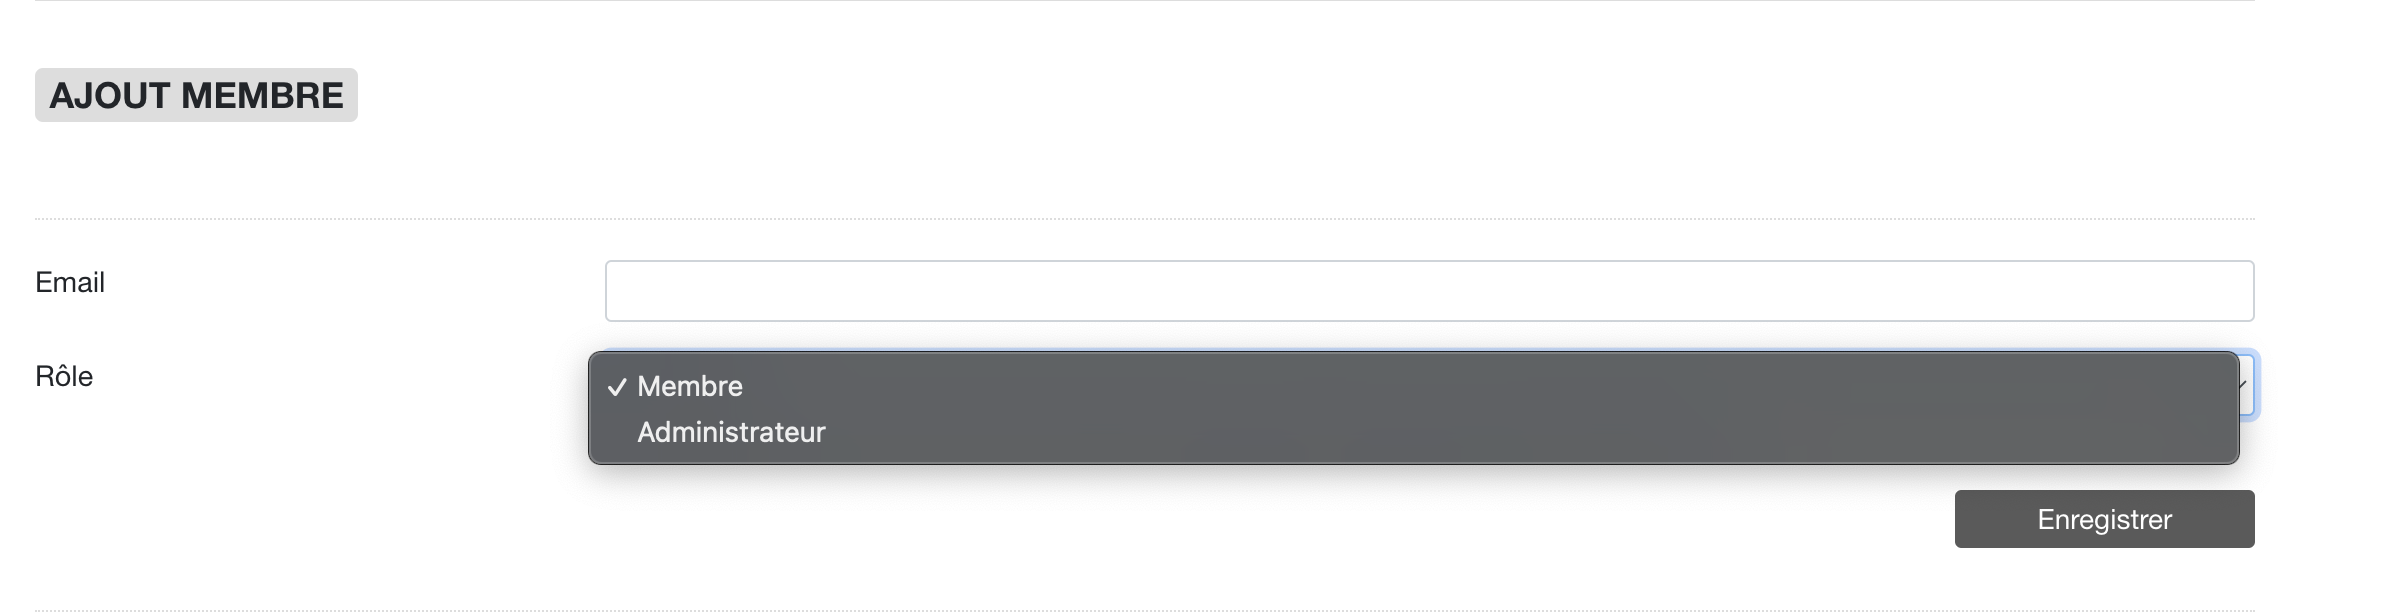
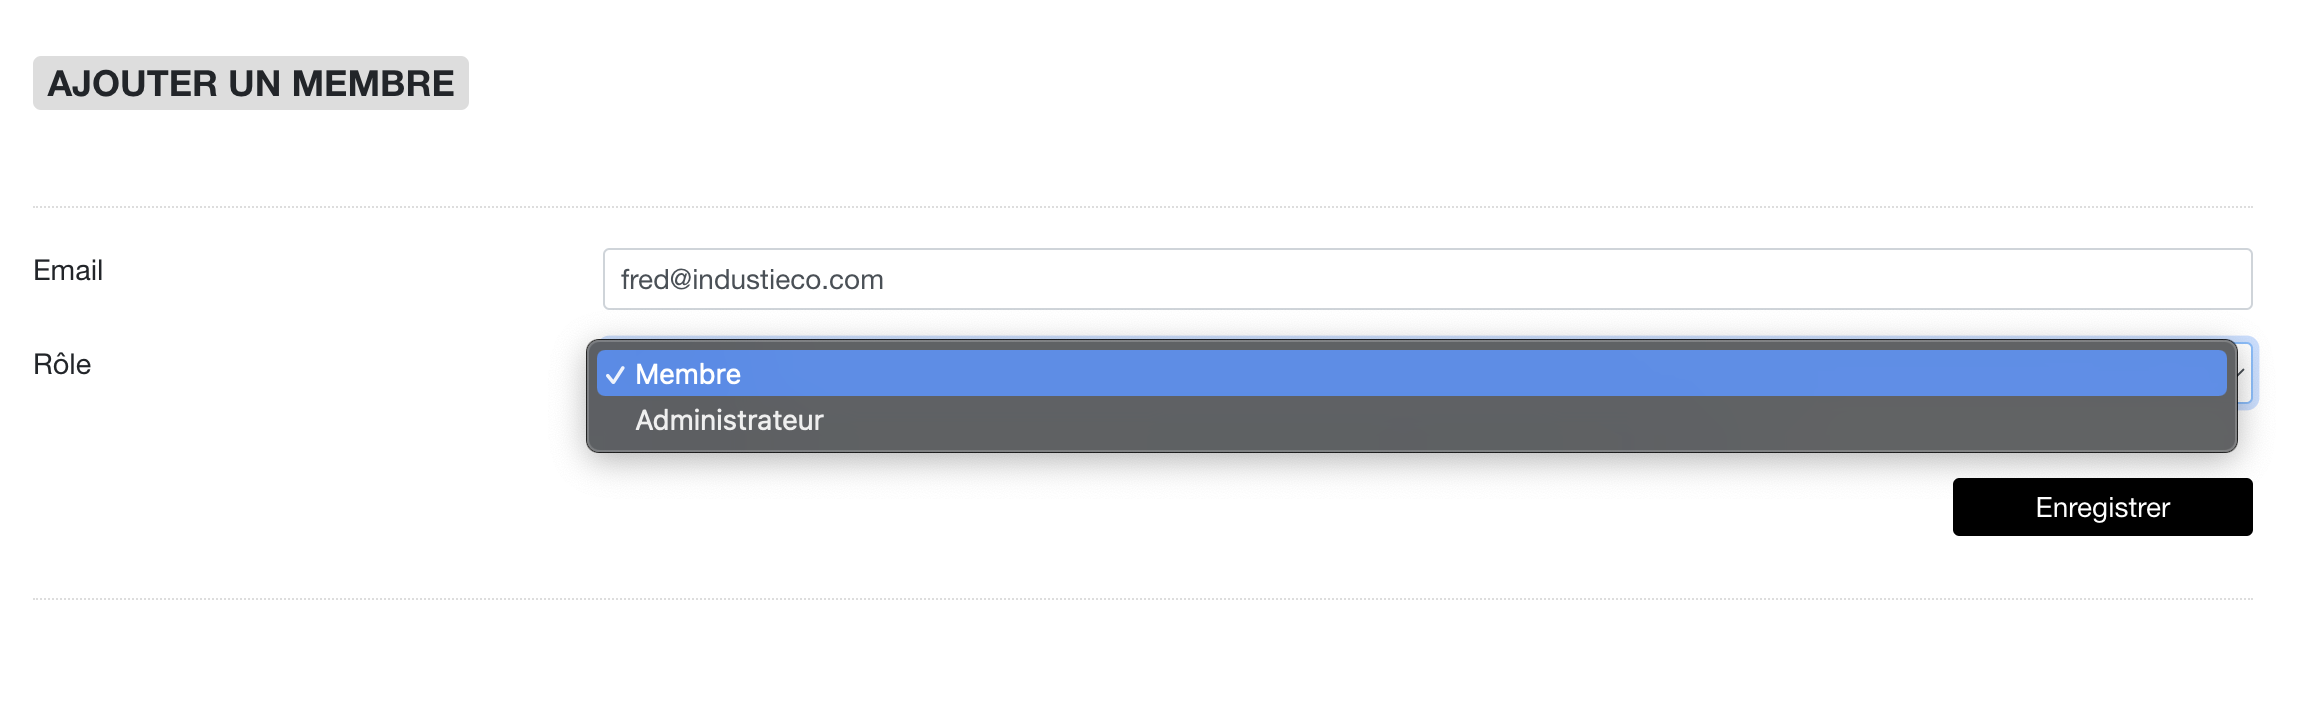
2022-06-21

diff --git a/docs/gs/metrics.md b/docs/gs/metrics.md
@@ -5,27 +5,36 @@
 
 Sur Statit, les indicateurs font partie de collections.
 
-Les collections sont des ensembles d'indicateurs qui se ressemblent. Ce sont un petit peu comme des étagères avec des livres de même nature ou comme des répertoires sur un ordinateur.
+Les collections contiennent des indicateurs qui se ressemblent. Ce sont un petit peu comme des étagères avec des livres de même nature ou des répertoires sur un ordinateur.
 
-Si vous ne travaillez pas dans une collection déjà créée, vous allez d'abord devoir en créer une. Suivez les étapes ci-dessous. Si la collection est déjà créée, passez à l'étape suivante.
+Si la collection avec laquelle vous souhaitez travailler existe déjà, passez à l'étape suivante. Sinon, vous allez d'abord devoir en créer une.
 
-Rendez-vous sur la page d'accueil de votre organisation.
+Rendez-vous d'abord sur la page d'accueil du compte 'Organisation' - soit en vous connectant avec les identifiants de votre compte 'Organisation', soit en cliquant sur l'organisation dans 'Mes organisations' dans le menu en haut à droite.
 
 ![](/img/publisher-fr_gs_metrics_0.png){: style="width:700px;margin:30px;padding:20px;border:1px solid #ddd;border-radius:5px"}
 
-Si vous ne voyez pas s'afficher le menu avec les onglets 'Collections' et 'Membres', cela signifie que vous n'avez pas la vue 'Utilisateur'. Rendez-vous dans 'Mon Compte' en haut à droite et dans la partie 'Configuration', changez la vue pour 'Organisation'.
+Si tout va bien, vous devez voir s'afficher les onglets 'Accueil', 'Collections' et 'Membres'
 
-Cliquez ensuite sur l'onglet 'Collections' et cherchez le bouton 'Créer une collection' en bas. Appuyez dessus.
+*Un problème?*
+
+> Si vous ne voyez pas s'afficher ces onglets, rendez-vous dans 'Mon Compte' en haut à droite et dans la partie 'Configuration' et changez la vue pour 'Organisation'.
+
+> Si la vue 'Organisation' n'est pas proposée, cela signifie que le compte n'est pas un compte 'Organisation', suivez les instructions de la [section précédente](index.md))
+
+
+Cliquez ensuite sur l'onglet 'Collections' et cherchez le bouton 'Créer une collection' en bas. Cliquez dessus.
 
 ![](/img/publisher-fr_gs_metrics_1.png){: style="width:700px;margin:30px;padding:20px;border:1px solid #ddd;border-radius:5px"}
 
-Vous êtes prêt à créer une collection. Choisissez d'abord un identifiant pour la collection. C'est un nom avec uniquement des lettres, des chiffres, les tirets '-_' et le '.'. Prenez par exemple 'test'.
+Vous êtes prêt à créer une collection.
 
-Ajoutez ensuite un nom pour la collection 'Une collection test'.
+- Choisissez d'abord un identifiant pour la collection. C'est un nom sans espace avec uniquement des lettres, des chiffres, les tirets '-_' et le '.'. Prenez par exemple 'test'.
 
-Définissez l'accès. Choisissez 'Public'. Cela signifie que tous les membres de l'organisation auront accès à la collection.
+- Ajoutez ensuite un nom pour la collection 'Une collection test'.
 
-Enfin, ajouter une description brève, par exemple 'Ma première collection'.
+- Définissez l'accès. Choisissez 'Public'. Cela signifie que tous les membres de l'organisation auront accès à la collection.
+
+- Enfin, ajouter une description brève, par exemple 'Ma première collection'.
 
 Cliquez sur 'Enregistrer'. C'est parti
 
@@ -47,33 +56,53 @@ Cliquez sur l'onglet 'Indicateurs' et puis sur le bouton 'Ajouter des indicateur
 ![](/img/publisher-fr_gs_metrics_4.png){: style="width:700px;margin:30px;padding:20px;border:1px solid #ddd;border-radius:5px"}
 
 
-## Utiliser les fichiers 'exemple'
+## Télécharger un fichier 'exemple'
 
 Pour commencer simplement, nous allons charger un fichier 'exemple'.
 
 Allez en bas de la page et cliquez sur 'Indicateurs simples'. Si vous travaillez avec Microsoft Excel, sélectionnez Excel. Sinon, choisissez Csv.
 
-En cliquant sur le choix, un fichier exemple va être téléchargé. Nous utilisons de notre côté Excel.
+![](/img/publisher-fr_gs_metrics_5.png){: style="width:400px;margin:30px;padding:20px;border:1px solid #ddd;border-radius:5px"}
 
-![](/img/publisher-fr_gs_metrics_5.png){: style="width:700px;margin:30px;padding:20px;border:1px solid #ddd;border-radius:5px"}
+En cliquant sur le choix, un fichier exemple va être téléchargé. L'image ci-dessous montre le fichier Excel.
 
-Ouvrons le fichier et observons les lignes:
+![](/img/publisher-fr_gs_metrics_6.png){: style="width:700px;margin:30px;padding:20px;border:1px solid #ddd;border-radius:5px"}
 
-- La première ligne contient les identifiants des indicateurs. Nous y reviendrons
-- La seconde ligne a le nom des indicateurs
+Ouvrez le fichier et observez les lignes:
+
+- La première ligne contient les identifiants des indicateurs
+- La seconde ligne le nom des indicateurs
 - La troisième ligne la description des indicateurs s'il y en a une
 - La quatrième l'unité
 - La cinquième la fréquence: D est pour Jour (Day), W pour Semaine (Week), M pour Mois (Month), Q pour Trimestre (Quarter) et enfin Y pour Année (Year)
 - A partir de la sixième ligne, nous retrouvons les valeurs de l'indicateur et la date de l'observation
 
-Ce fichier est un exemple de format qui peut être utilisé pour charger des indicateurs.
+Ce fichier est un exemple qui peut être utilisé pour charger des indicateurs.
 
-## Comprendre les identifiants
 
-Comme cela a été présenté dans le guide 'utilisateur', les indicateurs sur Statit ont un identifiant unique qui les réprésente et qui ressemble à un lien Internet.
+## Charger les indicateurs
 
-Par exemple, [clim/copernicus-r/daily/dk01/temp/real](https://www.gostatit.com/clim/copernicus-r/daily/dk01/temp/real) est l'identifiant unique d'un indicateur qui représente la température au Danemark.
+Dans notre exemple, les identifiants commencent par 'industrieco/test'. C'est l'identifiant de la collection.
 
-Les indicateurs sont aussi toujours représentés par leur fréquence (jour, semaine, mois) et leur unité (kilo, mètre, US Dollar...).
+Dans votre cas, les identifiants du fichier téléchargé commenceront par le nom d'utilisateur du compte, suivi de l'identifiant de la collection ('test' si vous avez choisi cela).
 
-Vous allez donc devoir renseigner ces éléments pour vos indicateurs.
+Prenez maintenant le fichier avec la souris et déposez le dans la zone grise de la page. Automatiquement, le fichier va être lu et analysé.
+
+![](/img/publisher-fr_gs_metrics_7.png){: style="width:400px;margin:30px;padding:20px;border:1px solid #ddd;border-radius:5px"}
+
+*Un problème ?*
+> Si vous n'êtes pas familier cette technique, vous pouvez cliquer sur le lien 'cliquez là' pour sélectionner manuellement le fichier exemple à chargé
+
+Une fenêtre apparait avec le résultat de la lecture du fichier: le nombre d'indicateurs valides, invalides et les identifiants des indicateurs qui vont être chargés.
+
+![](/img/publisher-fr_gs_metrics_8.png){: style="width:400px;margin:30px;padding:20px;border:1px solid #ddd;border-radius:5px"}
+
+Cliquez sur 'Chargez les indicateurs'
+
+Au bout de quelques secondes, vous êtes de nouveau sur la page d'accueil. Cliquez sur l'onglet 'Indicateurs'. Les indicateurs sont bien là.
+
+## Prochaines étapes
+
+Vous avez maintenant charger vos premiers indicateurs. Vous pouvez essayer de charger les autres fichiers 'exemple' ou de charger vos propres indicateurs.
+
+Si vous souhaitez comprendre comment inviter des collaborateurs, continuez [ici](members.md), si vous souhaitez voir comment publier des graphiques, c'est [là](charts.md)

diff --git a/docs/gs/charts.md b/docs/gs/charts.md
@@ -1,3 +1,116 @@
 # Ajouter des graphiques
 
-En cours de rédaction ... Merci pour votre patience.
+Vous avez chargé vos premiers indicateurs dans la collection que vous avez créé.
+
+Maintenant, vous allez ajouter des graphiques pour rendre la consultation des indicateurs plus facile.
+
+
+## Modifier la collection
+
+Rendez-vous sur la page d'accueil de la collection en choisissant la collection dans la liste des 'Collections' disponible sur la page d'accueil du compte 'Organisation'.
+
+A droite du nom de la collection, cliquez sur le bouton '...', puis sur modifier la collection.
+
+![](/img/publisher-fr_gs_charts_0.png){: style="width:300px;margin:30px;padding:20px;border:1px solid #ddd;border-radius:5px"}
+
+Dans la page de modification de la collection, allez tout en bas sur le champ 'Graphiques', cliquez sur 'Oui' puis sur 'Enregistrer'.
+
+Ca y est. Votre collection est prête à accueillir des graphiques.
+
+
+## Créer un tableau
+
+Sur Statit, les graphiques sont contenus dans des tableaux.
+
+Cliquez sur l'onglet 'Graphiques' de la page d'accueil de votre collection. Puis cliquez sur "Créer un tableau"
+
+![](/img/publisher-fr_gs_charts_1.png){: style="width:700px;margin:30px;padding:20px;border:1px solid #ddd;border-radius:5px"}
+
+Sur la page:
+
+- Ajoutez l'identifiant du tableau, par exemple 'premier'
+- Compléter le nom du tableau, 'Premier tableau'
+- Cliquez sur 'Enregistrer'
+
+
+## Ajouter un graphique
+
+Vous êtes maintenant dans le tableau.
+
+A droite du nom du tableau, cliquez sur le petit curseur et choisissez 'Ajouter un graphique'.
+
+![](/img/publisher-fr_gs_charts_2.png){: style="width:300px;margin:30px;padding:20px;border:1px solid #ddd;border-radius:5px"}
+
+Sur la première ligne, vous pouvez choisir le type de graphique. Pour le premier graphique, nous allons prendre un graphique en valeur. C'est un graphique qui va représenter une seule valeur.
+
+![](/img/publisher-fr_gs_charts_3.png){: style="width:700px;margin:30px;padding:20px;border:1px solid #ddd;border-radius:5px"}
+
+Entrez le nom du graphique, par exemple 'Prix'.
+
+Ensuite cliquez sur 'Ajouter un indicateur'. Et dans le champ 'Identifiant', indiquez l'identifiant de l'indicateur que vous souhaitez. Dans notre cas, nous ajoutons l'identifiant 'industrieco/test/produit_1/eur'
+
+![](/img/publisher-fr_gs_charts_3b.png){: style="width:700px;margin:30px;padding:20px;border:1px solid #ddd;border-radius:5px"}
+
+Cliquez sur Enregistrer pour sauver l'indicateur.
+
+Cliquez à nouveau sur 'Enregistrer' pour le graphique.
+
+Le graphique s'affiche désormais avec sa dernière valeur dans le tableau.
+
+![](/img/publisher-fr_gs_charts_4.png){: style="width:300px;margin:30px;padding:20px;border:1px solid #ddd;border-radius:5px"}
+
+
+## Modifier le graphique
+
+Nous allons maintenant faire quelques modifications sur le graphique.
+
+En haut à droite du graphique, cliquez sur '...' et sélectionnez 'Modifier le graphique'.
+
+Dans la section 'Indicateurs', à droite de l'identifiant, cliquez sur le curseur 'Modifier'.
+
+Cliquez sur 'Plus de paramètres'.
+
+Dans la section 'Format', choisissez 100.0 pour voir un chiffre après la virgule. Et dans la partie 'Conditions', indiquez la valeur 100 dans la condition 'Supérieure' et choisissez la couleur 'Orange'.
+
+![](/img/publisher-fr_gs_charts_5.png){: style="width:700px;margin:30px;padding:20px;border:1px solid #ddd;border-radius:5px"}
+
+Cliquez sur 'Enregistrer'. Et encore 'Enregistrer'
+
+Le nouveau graphique s'affiche désormais dans le tableau
+
+
+## Ajouter d'autres graphiques
+
+Sur la page du tableau, nous allons maintenant ajouter deux graphiques.
+
+### Graphique valeur
+
+Le premier est de nouveau un graphique en valeur.
+
+Cliquez sur 'Ajouter un graphique' et répétez ce que nous venons de faire. Choisissez un autre indicateur de votre collection, par exemple sur le 'produit_2' si vous avez téléchargé l'exemple.
+
+La priorité définit l'ordre dans lequel s'affichent les graphiques. Choisissez 14 pour ce graphique. Il va s'afficher juste arpès l'autre.
+
+
+### Graphique en ligne
+
+Nous allons maintenant créer un graphique en ligne avec plusieurs indicateurs.
+
+Cliquez à nouveau sur 'Ajouter un graphique'.
+
+Cette fois, dans le format, choisissez 'Graphique en ligne'. Dans le nom, indiquez 'Prix des produits'. Ensuite, dans la partie indicateurs, cliquez sur 'Ajouter un indicateur'.
+
+Dans la partie 'Identifiant', mettez l'identifiant du premier indicateur de la collection que nous avons chargé. Pour nous, c'est 'industrieco/test/produit_1/eur'. Choisissez une couleur pour chaque indicateur.
+
+Répétez l'opération pour plusieurs indicateurs.
+
+Dans le champ 'Priorité', indiquez 13 pour placer le graphique après les autres.
+
+![](/img/publisher-fr_gs_charts_6.png){: style="width:700px;margin:30px;padding:20px;border:1px solid #ddd;border-radius:5px"}
+
+
+## Prochaines étapes
+
+Ca y est. Vous avez créé un premier tableau avec plusieurs graphiques. Ce tableau est maintenant consultable tout autant que les indicateurs dans votre collection.
+
+Si vous souhaitez supprimer cette collection, allez dans la section suivante. Pour aller plus loin, c'est [ici](/next/index.md)

diff --git a/docs/gs/members.md b/docs/gs/members.md
@@ -1,3 +1,45 @@
 # Inviter des membres
 
-En cours de rédaction ... Merci pour votre patience.
+Vous avez chargé des indicateurs. Il est temps de maintenant les partager avec des membres.
+
+*Note*
+
+> Cette section est uniquement accessible si vous êtes propriétaire ou administrateur du compte 'Organisation'. Vous pouvez vérifiez vos droits d'accès dans 'Mon compte' dans l'onglet 'Accès' du menu en haut à droite
+
+## Inviter un membre
+
+Vous allez inviter des membres sur votre compte 'Organisation'.
+
+Ces membres pourront par défaut accéder à toutes les collections publiques sur le compte.
+
+Rendez-vous sur la page d'accueil de l'organisation (en cliquant sur l'organisation dans la section 'Mon organisation' dans le menu en haut à droite).
+
+Cliquez ensuite sur l'onglet Membres', puis sur 'Ajouter un membre'.
+
+Dans le formulaire, entrez l'email du membre que vous souhaitez inviter avec le rôle 'Membre'.
+
+![](/img/publisher-fr_gs_members_0.png){: style="width:700px;margin:30px;padding:20px;border:1px solid #ddd;border-radius:5px"}
+
+Cliquez sur 'Enregistrer'.
+
+Votre collaborateur va recevoir un email avec votre invitation. Après la création de son compte, il pourra directement visiter l'organisation
+
+
+## Types de membre
+
+Il y a trois types de membres dans les comptes 'Organisation'.
+
+- Les 'Membres' peuvent accéder au compte. Ils ne peuvent pas gérer les membres, ni créer des collections mais peuvent éditer des collections existantes.
+
+- Les 'Administrateurs' peuvent accéder au compte, gérer les membres du compte et créer de nouvelles collections
+
+- Les 'Propriétaires' peuvent tout faire, notamment supprimer le compte.
+
+Vous pouvez changer les droits d'accès des membres en cliquant sur 'Modifier l'accès à droite du membre dans la liste des membres.
+
+
+## Prochaines étapes
+
+Vous avez appris à ajouter des collaborateurs et modifier leurs droits.
+
+Dans la partie [suivante](charts.md), nous allons maintenant apprendre à publier des graphiques au sein d'une collection.

diff --git a/docs/gs/wrapup.md b/docs/gs/wrapup.md
@@ -1,0 +1,14 @@
+# Nettoyer
+
+Vous avez chargé vos premiers indicateurs, invité des membres et créer un premier tableau.
+
+Si vous le souhaitez, vous allez maintenant supprimer la collection. Pour faire cela, vous devez:
+
+- Supprimer les graphiques et tableaux de bord
+- Enfin, supprimer les indicateurs
+
+Pour supprimer le tableau, c'est simple, allez dans le tableau et cliquez en haut à droite sur 'Supprimer'.
+
+Pour supprimer les indicateurs, allez dans la page d'accueil de la collection et cliquez sur 'Supprimer les indicateurs'.
+
+Une fois que la collection est vide, vous pouvez la supprimer.

diff --git a/docs/gs/index.md b/docs/gs/index.md
@@ -56,9 +56,7 @@ Si vous n'avez pas les droits suffisants, contactez la personne qui gère l'orga
 Vous êtes prêt à passer à l'[étape suivante](metrics.md).
 
 
-
 ## Prochaines étapes
-
 
 Vous avez appris ce qu'est un compte organisation, comment en créer un ou comment en rejoindre un.
 

diff --git a/docs/next/charts.md b/docs/next/charts.md
@@ -1,0 +1,3 @@
+# Aller plus loin
+
+En cours de rédaction ... Merci pour votre patience.

diff --git a/docs/next/metrics.md b/docs/next/metrics.md
@@ -1,0 +1,3 @@
+# Aller plus loin
+
+En cours de rédaction ... Merci pour votre patience.

diff --git a/docs/next/private.md b/docs/next/private.md
@@ -1,0 +1,3 @@
+# Aller plus loin
+
+En cours de rédaction ... Merci pour votre patience.
